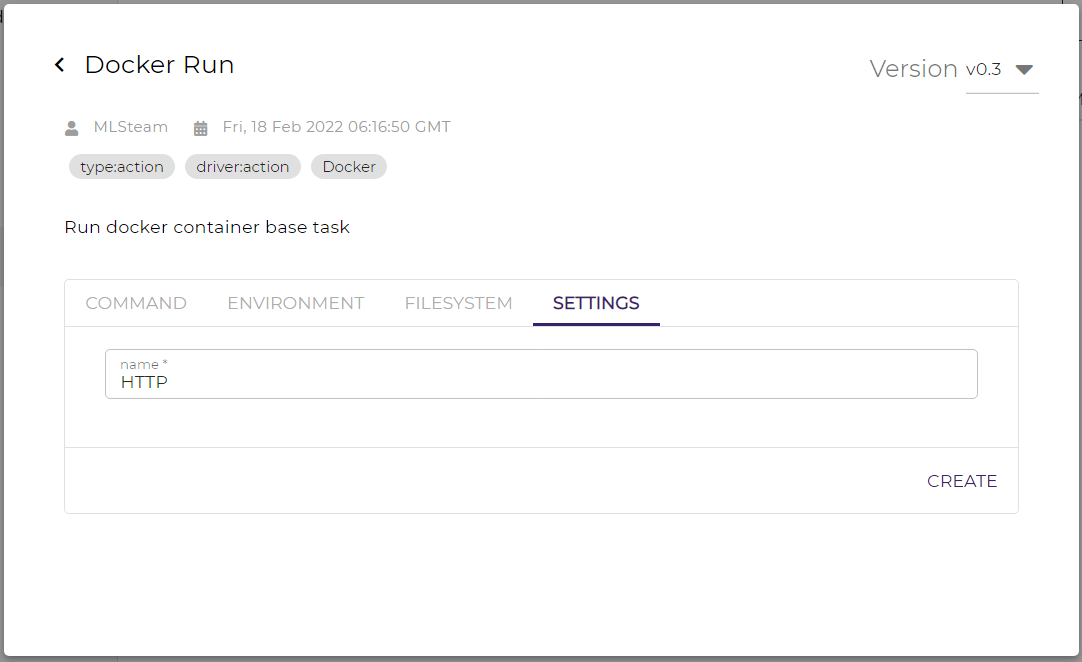
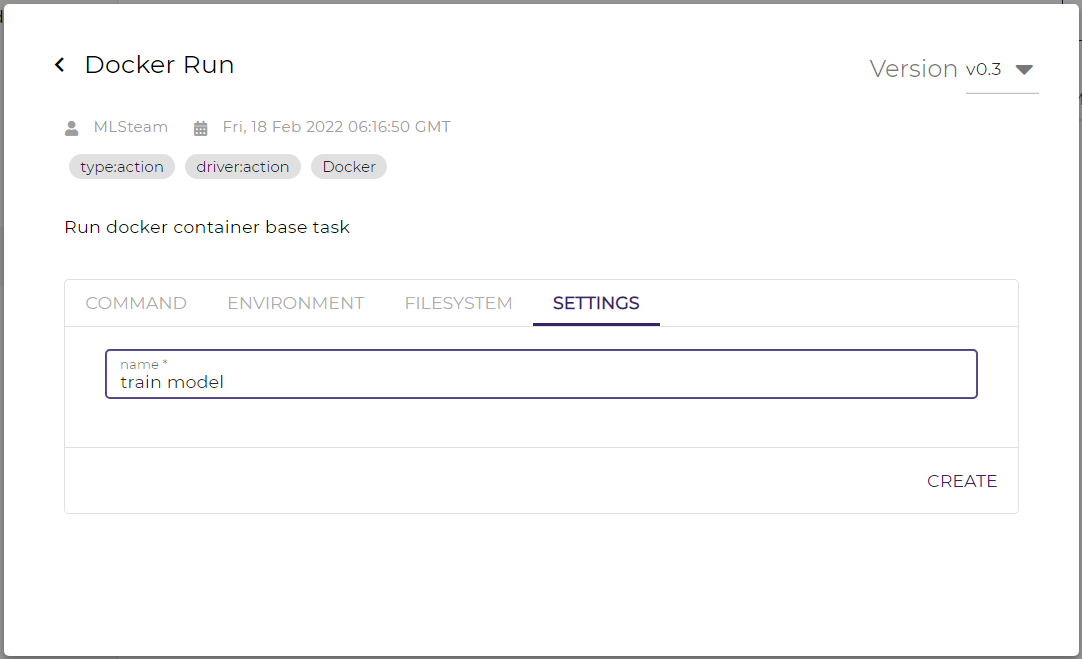
Update the get started (MLOps) page and update the copyright line

diff --git a/conf.py b/conf.py
@@ -21,7 +21,7 @@ import sphinx_rtd_theme
 # -- Project information -----------------------------------------------------
 
 project = u'MLSteam'
-copyright = u'2020, MyelinTek'
+copyright = u'2022, MyelinTek'
 author = u'MyelinTek'
 
 # The short X.Y version

diff --git a/user/mlops.rst b/user/mlops.rst
@@ -80,7 +80,7 @@ We will define an MLops pipeline consiting of two actions: (1) to download the l
 
         * Command:
 
-            ..code-block:: shell
+            .. code-block:: shell
 
                 apt-get update && apt-get install -y libgl1-mesa-glx
                 pip uninstall -y typer
@@ -100,9 +100,79 @@ We will define an MLops pipeline consiting of two actions: (1) to download the l
 
     * In the *settings* section:
 
-        * Name: ``train model``
+        * Action name: ``train model``
 
         .. image:: /_static/imgs/user/get_started/add_pipeline_action_2_3.png
-            :width: 400
+            :width: 480
 
     * Click on the *CREATE* button.
+
+Now, we have defined all the actions and are ready to run the pipeline.
+
+.. image:: /_static/imgs/user/get_started/add_pipeline_action_3.png
+    :width: 600
+
+Run the Pipeline
+================
+
+To run the Pipeline:
+
+#) Click on the *RUN PIPELINE* button in the top-right corner.
+
+    .. image:: /_static/imgs/common/btn_run_pipeline.png
+
+#) Write a comment to denote this run or leave it blank.
+#) Click on the *RUN NOW* button. The pipeline will start to run in a few seconds.
+
+    .. image:: /_static/imgs/user/get_started/run_pipeline_1_1.png
+        :width: 300
+    
+    .. note::
+        A pipeline run may be delayed for a while
+        if the system is busy on processing other labs or pipeline runs.
+
+We could see the overall pipeline run information and the current status in the pipeline run page.
+
+.. image:: /_static/imgs/user/get_started/run_pipeline_1_2.png
+    :width: 600
+
+The immediate outputs of a pipeline action could be observed by clicking on the *LOG* button.
+
+.. image:: /_static/imgs/user/get_started/run_pipeline_1_3.png
+    :width: 600
+
+We could also view the outputs fullscreen by clicking on the *fullscreen* button.
+Press :kbd:`Esc` to exit the fullscreen mode.
+
+.. image:: /_static/imgs/user/get_started/run_pipeline_1_4.png
+    :width: 600
+
+The model validation results could be found in the last part of the outputs, something like::
+
+    Validating /working/train/exp/weights/best.pt...
+    Fusing layers... 
+    Model Summary: 213 layers, 7225885 parameters, 0 gradients, 16.5 GFLOPs
+
+                Class     Images     Labels          P          R     mAP@.5 mAP@.5:.95:   0%|          | 0/4 [00:00<?, ?it/s]
+                Class     Images     Labels          P          R     mAP@.5 mAP@.5:.95:  25%|██▌       | 1/4 [00:00<00:02,  1.30it/s]
+                Class     Images     Labels          P          R     mAP@.5 mAP@.5:.95:  50%|█████     | 2/4 [00:02<00:02,  1.10s/it]
+                Class     Images     Labels          P          R     mAP@.5 mAP@.5:.95:  75%|███████▌  | 3/4 [00:03<00:01,  1.17s/it]
+                Class     Images     Labels          P          R     mAP@.5 mAP@.5:.95: 100%|██████████| 4/4 [00:04<00:00,  1.05s/it]
+                Class     Images     Labels          P          R     mAP@.5 mAP@.5:.95: 100%|██████████| 4/4 [00:04<00:00,  1.19s/it]
+                    all        128        929      0.741      0.574      0.669       0.46
+                person        128        254      0.817      0.669      0.789      0.521
+                bicycle        128          6      0.776      0.586      0.627      0.388
+                    car        128         46      0.659       0.37      0.481      0.229
+            motorcycle        128          5      0.758      0.632       0.88      0.687
+                airplane        128          6          1      0.823      0.995      0.789
+
+The overall precision *0.741* seems acceptible for our practice.
+We are now ready to run the pipeline again with more training epochos and
+to visualize the results.
+
+.. note::
+    The actual results you get may slightly differ.
+
+Visualize the ML Results
+========================
+
